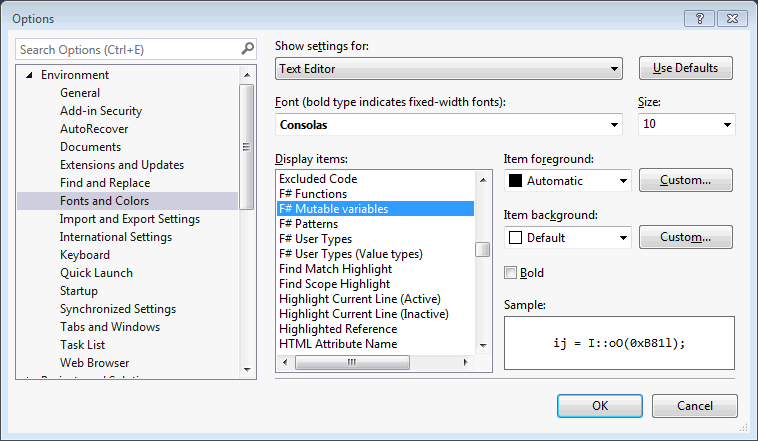
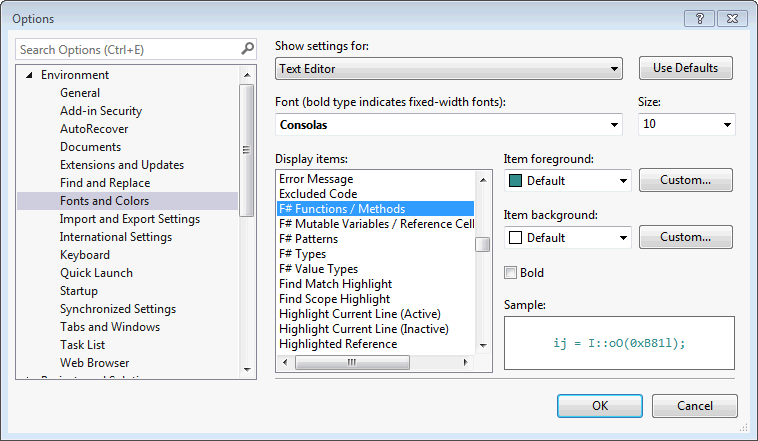
Updates for syntax coloring

diff --git a/src/FSharpVSPowerTools/SyntaxConstructClassifierProvider.cs b/src/FSharpVSPowerTools/SyntaxConstructClassifierProvider.cs
@@ -164,7 +164,7 @@ namespace FSharpVSPowerTools
             [ImportingConstructor]
             public FSharpReferenceTypeFormat(ClassificationColorManager colorManager)
             {
-                this.DisplayName = "F# User Types";
+                this.DisplayName = "F# Types";
                 this.ForegroundColor = colorManager.GetDefaultColor(ClassificationTypes.FSharpReferenceType);
             }
         }
@@ -178,7 +178,7 @@ namespace FSharpVSPowerTools
             [ImportingConstructor]
             public FSharpValueTypeFormat(ClassificationColorManager colorManager)
             {
-                this.DisplayName = "F# User Types (Value types)";
+                this.DisplayName = "F# Value Types";
                 this.ForegroundColor = colorManager.GetDefaultColor(ClassificationTypes.FSharpValueType);
             }
         }
@@ -206,7 +206,7 @@ namespace FSharpVSPowerTools
             [ImportingConstructor]
             public FSharpFunctionFormat(ClassificationColorManager colorManager)
             {
-                this.DisplayName = "F# Functions";
+                this.DisplayName = "F# Functions / Methods";
                 this.ForegroundColor = colorManager.GetDefaultColor(ClassificationTypes.FSharpFunction);
             }
         }
@@ -220,7 +220,7 @@ namespace FSharpVSPowerTools
             [ImportingConstructor]
             public FSharpMutableVarFormat(ClassificationColorManager colorManager)
             {
-                this.DisplayName = "F# Mutable variables";
+                this.DisplayName = "F# Mutable Variables / Reference Cells";
                 this.ForegroundColor = colorManager.GetDefaultColor(ClassificationTypes.FSharpMutableVar);
             }
         }
